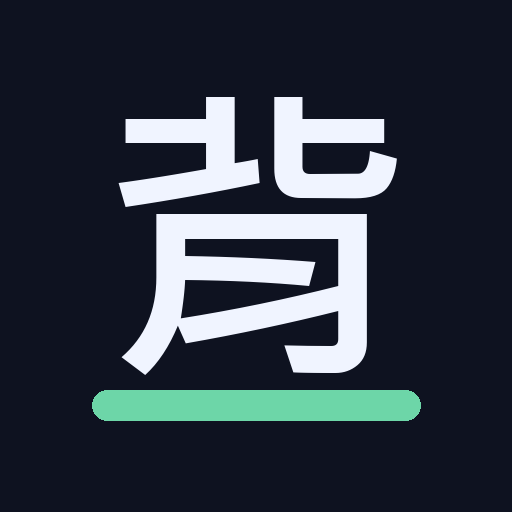
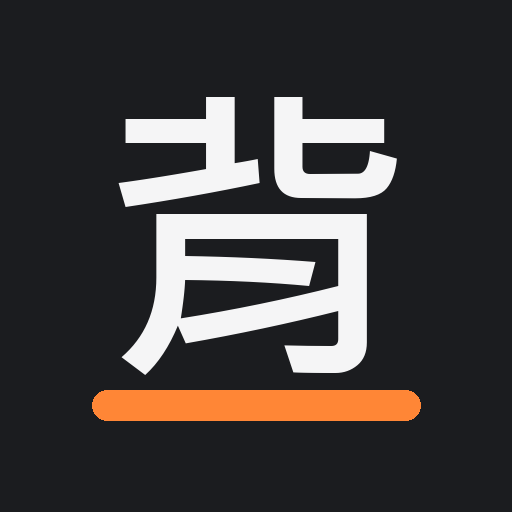
UI:改為中性灰底 + 亮橘重點色(更清爽年輕)
- 配色 token:深藍→中性灰底、薄荷綠→亮橘 accent
- 播放鈕/自動鈕/詞性標籤/進度條/選中狀態改橘色
- theme-color 與 manifest 主題色改灰
- App 圖示(gen_icons.py)改灰底橘條,重新產生

Claude-Session: https://claude.ai/code/session_019B8zyNXFM6WjG7GU81Sm6J

Changed region(s): [[0.1562, 0.75, 0.8438, 0.8438]]

diff --git a/css/styles.css b/css/styles.css
@@ -1,10 +1,11 @@
 /* ===== 背單字 App — 深色高對比、大字體、單手、iOS 安全區 ===== */
 :root{
   --fs: 1;                       /* 字級縮放,JS 調整 */
-  --bg:#0e1220; --bg2:#161c2e; --card:#1c2338; --card2:#232c46;
-  --fg:#f0f4ff; --muted:#9aa6c4; --line:#2c3856;
-  --accent:#6dd6a8; --accent2:#4bb98c;
-  --known:#5ec26a; --review:#f2c04b; --danger:#e06666;
+  /* 中性灰底 + 亮橘重點:清爽、年輕 */
+  --bg:#1b1c1f; --bg2:#25262b; --card:#2a2b31; --card2:#34353d;
+  --fg:#f5f5f6; --muted:#a7a8af; --line:#3c3d45;
+  --accent:#ff8636; --accent2:#e8701c;
+  --known:#4fc27a; --review:#f5b13a; --danger:#ef6a5f;
   --safe-t: env(safe-area-inset-top, 0px);
   --safe-b: env(safe-area-inset-bottom, 0px);
   --safe-l: env(safe-area-inset-left, 0px);
@@ -35,7 +36,7 @@ img{max-width:100%;}
   height:calc(var(--topbar-h) + var(--safe-t));
   padding:var(--safe-t) calc(8px + var(--safe-r)) 0 calc(8px + var(--safe-l));
   display:flex; align-items:center; gap:6px;
-  background:linear-gradient(var(--bg),rgba(14,18,32,.92));
+  background:linear-gradient(var(--bg),rgba(27,28,31,.92));
   border-bottom:1px solid var(--line);
   backdrop-filter:blur(8px);
 }
@@ -84,7 +85,7 @@ img{max-width:100%;}
 .pos-tag{
   font-size:calc(13px*var(--fs)); color:var(--accent);
   border:1px solid var(--accent2); border-radius:999px;
-  padding:2px 10px; background:rgba(109,214,168,.08);
+  padding:2px 10px; background:rgba(255,134,54,.09);
 }
 .word{
   border:none; background:transparent;
@@ -103,12 +104,12 @@ img{max-width:100%;}
 
 .play-word-btn,.play-sentence-btn{
   margin-top:4px; border:1px solid var(--accent2);
-  background:rgba(109,214,168,.12); color:var(--accent);
+  background:rgba(255,134,54,.14); color:var(--accent);
   font-size:calc(18px*var(--fs)); font-weight:700;
   padding:12px 26px; border-radius:999px; min-height:48px;
 }
-.play-word-btn:active,.play-sentence-btn:active{background:rgba(109,214,168,.28);}
-.play-word-btn.playing,.play-sentence-btn.playing{background:var(--accent); color:#0b1020;}
+.play-word-btn:active,.play-sentence-btn:active{background:rgba(255,134,54,.30);}
+.play-word-btn.playing,.play-sentence-btn.playing{background:var(--accent); color:#1b1c1f;}
 
 .tap-hint{color:var(--muted); font-size:calc(14px*var(--fs)); opacity:.8; margin-top:2px;}
 .card-img{max-height:34%; border-radius:12px; object-fit:contain;}
@@ -126,7 +127,7 @@ img{max-width:100%;}
   height:calc(var(--transport-h) + var(--safe-b));
   padding:6px calc(8px + var(--safe-r)) calc(6px + var(--safe-b)) calc(8px + var(--safe-l));
   display:flex; align-items:stretch; gap:6px;
-  background:linear-gradient(rgba(14,18,32,.92),var(--bg));
+  background:linear-gradient(rgba(27,28,31,.92),var(--bg));
   border-top:1px solid var(--line);
   backdrop-filter:blur(8px);
 }
@@ -138,8 +139,8 @@ img{max-width:100%;}
 }
 .t-btn:active{background:var(--card2);}
 #btnPrev,#btnNext{flex:.7; font-size:calc(30px*var(--fs)); font-weight:400;}
-.t-auto{background:var(--accent); color:#0b1020; border-color:var(--accent);}
-.t-btn.on{background:var(--accent); color:#0b1020; border-color:var(--accent);}
+.t-auto{background:var(--accent); color:#1b1c1f; border-color:var(--accent);}
+.t-btn.on{background:var(--accent); color:#1b1c1f; border-color:var(--accent);}
 .t-btn.marked-known{background:rgba(94,194,106,.22); border-color:var(--known); color:var(--known);}
 .t-btn.marked-review{background:rgba(242,192,75,.2); border-color:var(--review); color:var(--review);}
 
@@ -184,7 +185,7 @@ img{max-width:100%;}
 .filter-chips{display:flex; gap:8px; margin-bottom:14px; flex-wrap:wrap;}
 .chip{background:var(--card); border:1px solid var(--line); color:var(--muted);
   border-radius:999px; padding:8px 16px; font-size:calc(14px*var(--fs)); min-height:40px;}
-.chip.active{background:var(--accent); color:#0b1020; border-color:var(--accent); font-weight:700;}
+.chip.active{background:var(--accent); color:#1b1c1f; border-color:var(--accent); font-weight:700;}
 
 .unit-list{list-style:none; margin:0; padding:0;}
 .unit-item{
@@ -196,7 +197,7 @@ img{max-width:100%;}
 .unit-title{font-size:calc(17px*var(--fs)); font-weight:700;}
 .unit-sub{font-size:calc(13px*var(--fs)); color:var(--muted);}
 .unit-dl{
-  border:1px solid var(--accent2); background:rgba(109,214,168,.12); color:var(--accent);
+  border:1px solid var(--accent2); background:rgba(255,134,54,.14); color:var(--accent);
   border-radius:10px; padding:8px 12px; font-size:calc(13px*var(--fs)); min-height:40px; white-space:nowrap;
 }
 .unit-dl.done{border-color:var(--known); color:var(--known); background:rgba(94,194,106,.12);}
@@ -218,7 +219,7 @@ img{max-width:100%;}
 .seg{display:flex; gap:6px; background:var(--card); border-radius:12px; padding:4px;}
 .seg button{flex:1; border:none; background:transparent; color:var(--muted);
   padding:12px 4px; border-radius:9px; font-size:calc(15px*var(--fs)); min-height:44px;}
-.seg button.active{background:var(--accent); color:#0b1020; font-weight:700;}
+.seg button.active{background:var(--accent); color:#1b1c1f; font-weight:700;}
 .switch-row{display:flex; align-items:center; justify-content:space-between;
   padding:12px 0; font-size:calc(16px*var(--fs)); gap:10px;}
 .switch-row input{width:24px; height:24px; accent-color:var(--accent);}

diff --git a/index.html b/index.html
@@ -8,7 +8,7 @@
 
   <!-- PWA -->
   <link rel="manifest" href="manifest.json" />
-  <meta name="theme-color" content="#0e1220" />
+  <meta name="theme-color" content="#1b1c1f" />
 
   <!-- iOS PWA -->
   <meta name="apple-mobile-web-app-capable" content="yes" />

diff --git a/scripts/gen_icons.py b/scripts/gen_icons.py
@@ -11,9 +11,9 @@ ROOT = os.path.dirname(os.path.dirname(os.path.abspath(__file__)))
 OUT = os.path.join(ROOT, "icons")
 os.makedirs(OUT, exist_ok=True)
 
-BG = (14, 18, 32)        # 深藍黑
-ACCENT = (109, 214, 168)  # 薄荷綠(與 App 主色一致)
-FG = (240, 244, 255)
+BG = (27, 28, 31)        # 中性深灰
+ACCENT = (255, 134, 54)  # 亮橘(與 App 主色一致)
+FG = (245, 245, 246)
 
 
 def find_font(size):
